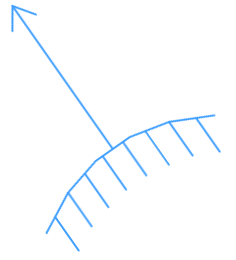
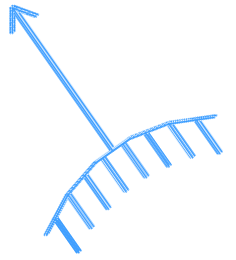
boldened ambush symbol

Changed region(s): [[0.0297, 0.0, 0.9492, 0.7385], [0.178, 0.7077, 0.4153, 0.9846], [0.3263, 0.6462, 0.4746, 0.8308]]

diff --git a/OPORD1/scripts.js b/OPORD1/scripts.js
@@ -34,7 +34,7 @@ var thirdPLT = L.divIcon({className: 'thirdPLT',iconAnchor: [110,27]});
 L.marker([ 46.8501359, -123.2154047 ], {icon: thirdPLT}).addTo(mymap);
 
 // var dragoon = L.marker([	46.8721964, -123.1930277]).addTo(mymap);
-var objective_dragoon = L.divIcon({className: 'objective_dragoon',iconAnchor: [60,30]});
+var objective_dragoon = L.divIcon({className: 'objective_dragoon',iconAnchor: [25,30]});
 L.marker([ 46.8721964, -123.1930277 ], {icon: objective_dragoon}).addTo(mymap).bindPopup('<img src="obj_dragoon_overhead.PNG" height="150px" width="150px"/>');
 
 //Ambush Symbol
@@ -47,7 +47,7 @@ var north_AO = L.divIcon({className: 'north_AO',iconAnchor: [110,27]});
 L.marker([ 46.987620, -123.138020 ], {icon: north_AO}).addTo(mymap);
 
 // Eastern AO
-var east_AO = L.divIcon({className: 'east_AO',iconAnchor: [75,0]});
+var east_AO = L.divIcon({className: 'east_AO',iconAnchor: [75,30]});
 L.marker([ 46.900121, -123.017832 ], {icon: east_AO}).addTo(mymap);
 
 // Loads Route Plan

diff --git a/OPORD1/styles.css b/OPORD1/styles.css
@@ -51,15 +51,15 @@
 .ambush {
   background-image: url(https://github.com/vanmeciv/OPORDS/blob/master/OPORD1/3rd_PLT_ambush.PNG?raw=true);
   background-repeat: no-repeat;
-  background-size: 120px 110px;
-  padding-top: 100px;
-  padding-right: 220px;
+  background-size: 55px 55px;
+  padding-top: 110px;
+  padding-right: 120px;
 }
 
 .objective_dragoon {
   background-image: url(https://github.com/vanmeciv/OPORDS/blob/master/OPORD1/objective_dragoon.PNG?raw=true);
   background-repeat: no-repeat;
-  background-size: 110px 80px;
+  background-size: 65px 50px;
   padding-top: 108px;
   padding-right: 138px;
 }
